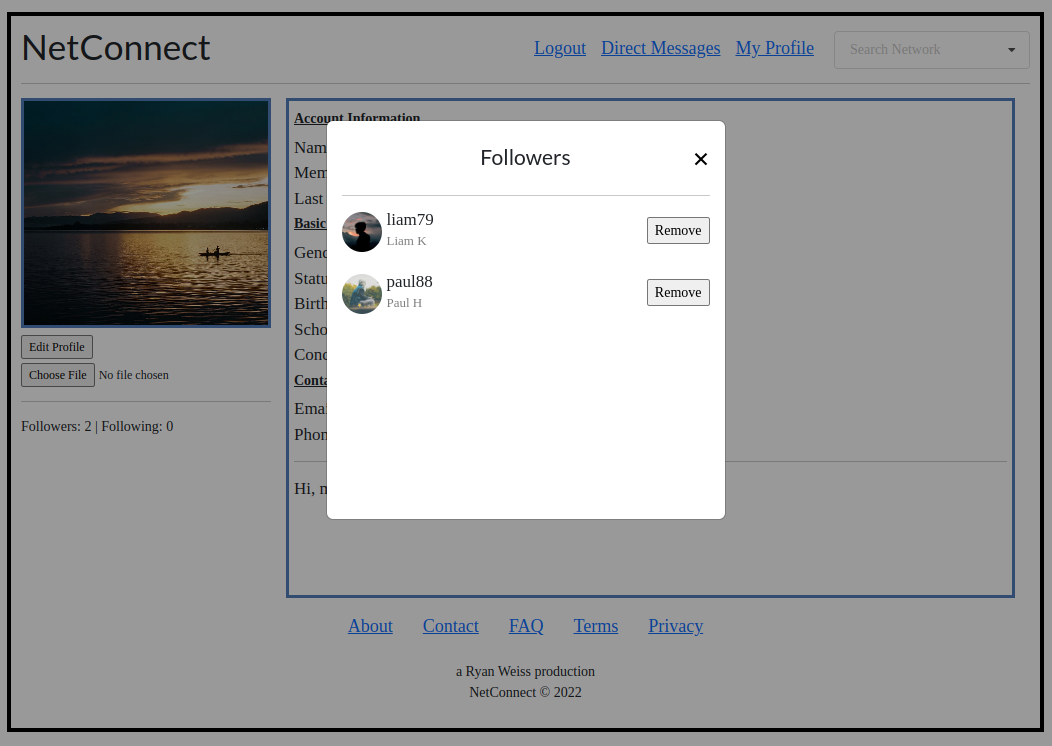
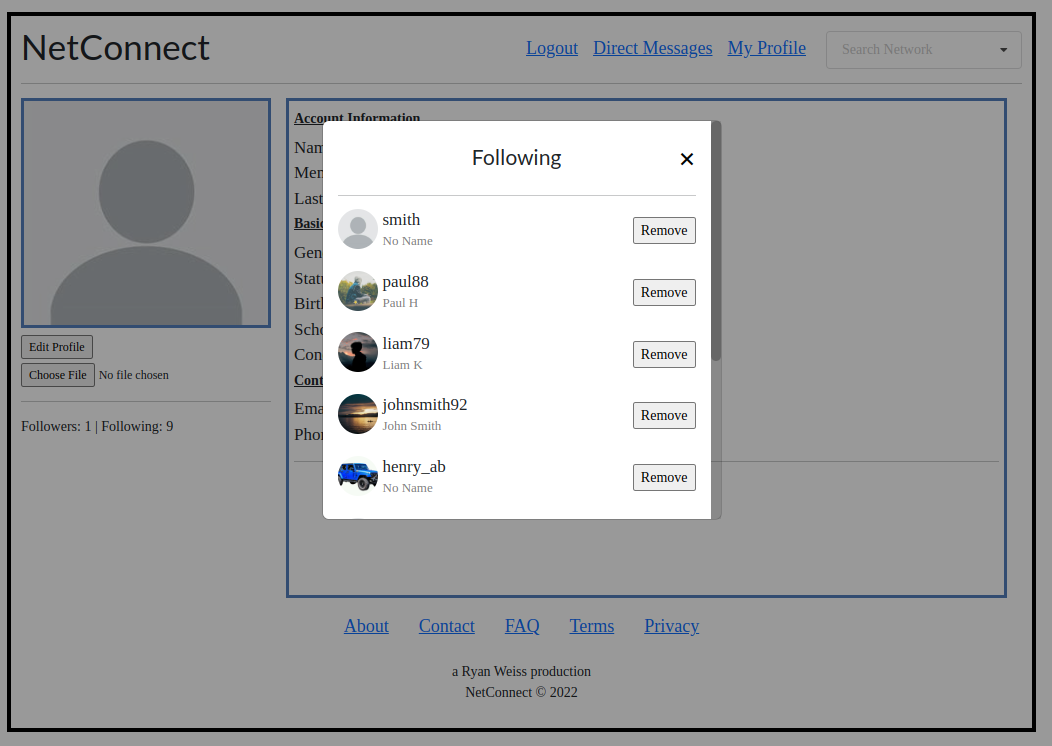
fetch only enabled accounts

diff --git a/server/fetchprofile.js b/server/fetchprofile.js
@@ -4,12 +4,18 @@ function FetchProfile(request, result)
 {
   database.query(`
     SELECT accounts.id, username, name, date_created, date_updated, gender, status, birthdate, school, concentration, email, phone_number, bio,
-    (SELECT COUNT(*) FROM communications WHERE accounts.id = communications.user) as followers,
-    (SELECT COUNT(*) FROM communications WHERE accounts.id = communications.follower) as following,
+    (SELECT COUNT(*) FROM accounts
+      LEFT JOIN communications ON communications.follower = accounts.id
+      WHERE communications.user = ${request.query.profileId} AND enabled=true) as followers,
+
+    (SELECT COUNT(*) FROM accounts
+      LEFT JOIN communications ON communications.user = accounts.id 
+      WHERE communications.follower = ${request.query.profileId} AND enabled=true) as following,
+
     (SELECT EXISTS(SELECT * FROM communications
       WHERE follower = ${request.query.id}
-      and "user" = ${request.query.profileId})
-      as is_following)
+      AND "user" = ${request.query.profileId})
+      AS is_following)
 
     FROM accounts
     WHERE accounts.id=${request.query.profileId} AND enabled=TRUE`, function(error, data) {

diff --git a/server/getfollowing.js b/server/getfollowing.js
@@ -5,7 +5,7 @@ function GetFollowing(request, result)
   database.query(`
     SELECT accounts.id, username, name FROM accounts
     LEFT JOIN communications ON communications.user = accounts.id
-    WHERE communications.follower = ${request.query.id}`, function(error, data) {
+    WHERE communications.follower = ${request.query.id} AND enabled=TRUE`, function(error, data) {
       if (!error) result.send(data.rows);
     }
   );

diff --git a/server/getfollowers.js b/server/getfollowers.js
@@ -5,7 +5,7 @@ function GetFollowers(request, result)
   database.query(`
     SELECT accounts.id, username, name from accounts
     LEFT JOIN communications ON communications.follower = accounts.id
-    WHERE communications.user = ${request.query.id}`, function(error, data) {
+    WHERE communications.user = ${request.query.id} AND enabled=TRUE`, function(error, data) {
       if (!error) result.send(data.rows);
     }
   );

diff --git a/server/fetchpicture.js b/server/fetchpicture.js
@@ -4,7 +4,7 @@ function FetchPicture(request, result)
 {
   try {
     result.send(
-      fs.readFileSync(`images/${request.query.id}_default.png`)
+      fs.readFileSync(`images/${request.query.id}_profile.png`)
     );
   
   } catch(error) {
